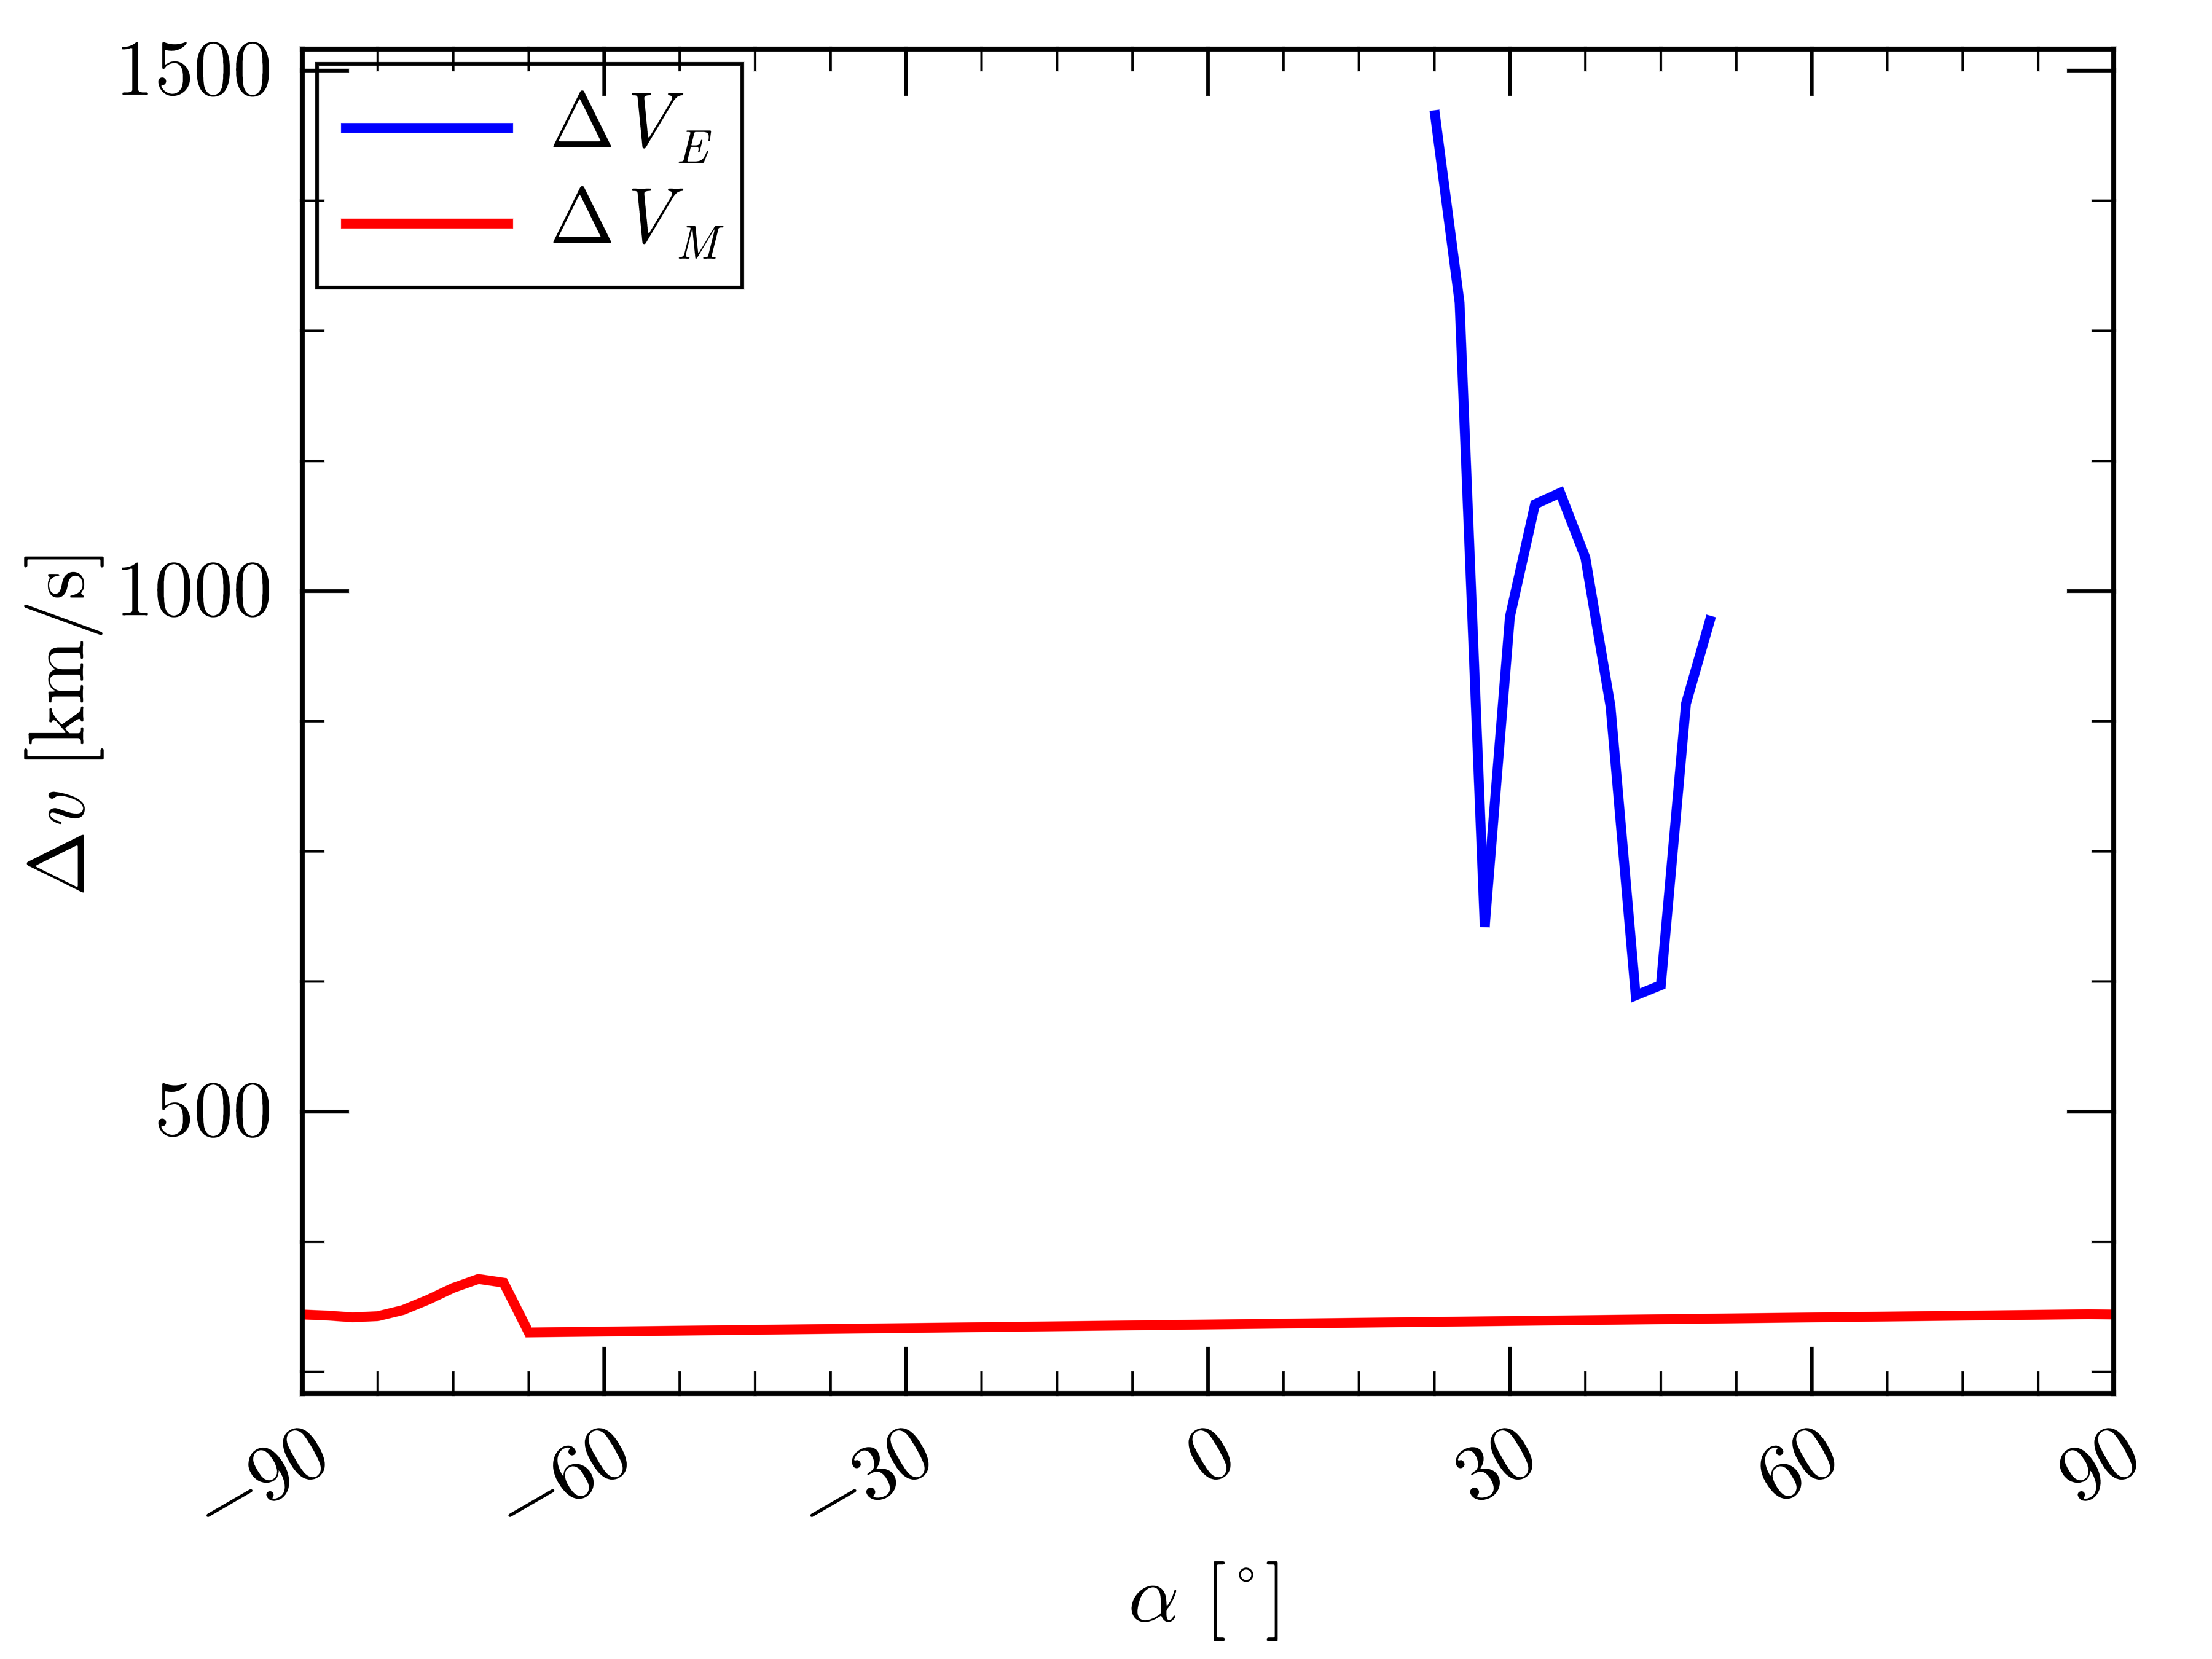
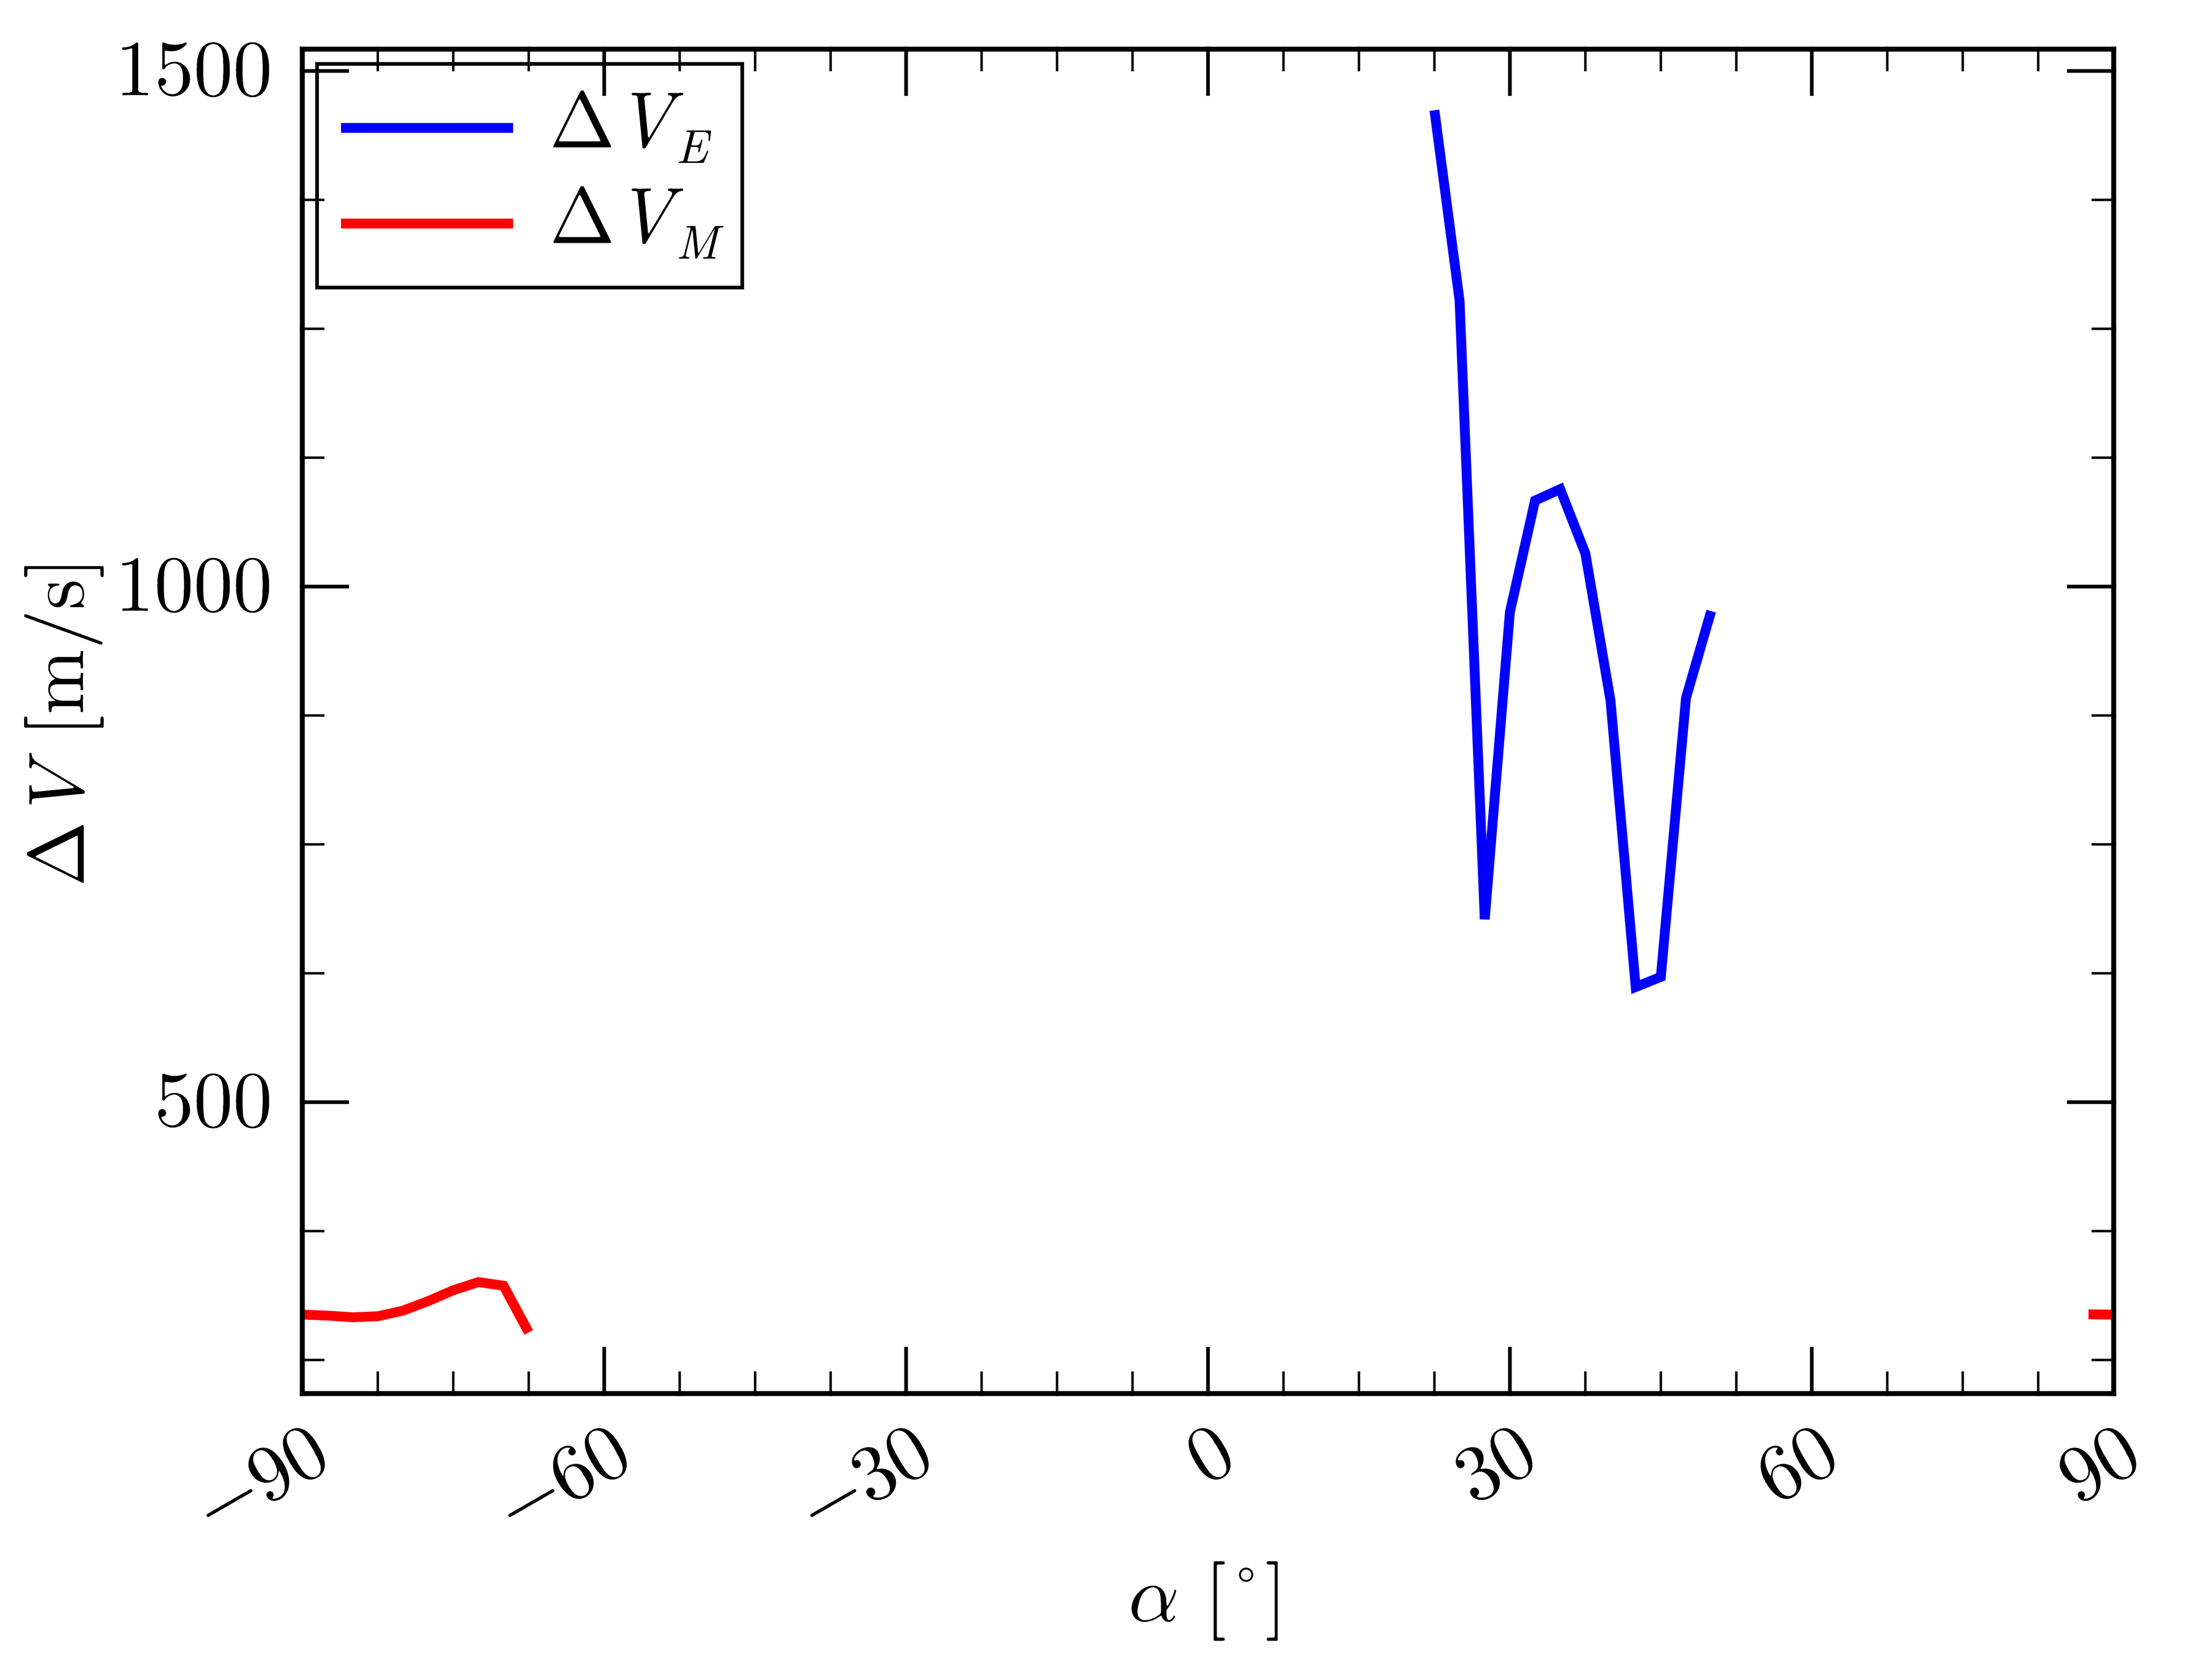
fix frame conversion

diff --git a/report/AE4889_Daniel-Perez-Trias.tex b/report/AE4889_Daniel-Perez-Trias.tex
@@ -88,6 +88,7 @@
 \newacronym{jpl}{JPL}{Jet Propulsion Laboratory}
 \newacronym{cr3bp}{CR3BP}{Circular Restricted Three-Body Problem}
 \newacronym{aep}{AEP}{Artificial Equilibrium Point}
+\newacronym{mpo}{MPO}{Mars Parking Orbit}
 
 \begin{document}
 
@@ -108,6 +109,7 @@
             \begin{itemize}[label=\textendash,leftmargin=*]
                 \item Andreu Craus Vidal
                 \item Rodrigo Duarte Soares
+                \item Ismael Gallo López
             \end{itemize}
         \end{minipage}
     \par}
@@ -282,7 +284,7 @@
     \item[\textbf{2.4}] To analyse the sensitivity of the required lightness number to the shift in the Lagrange point, a range of 21 shifts from $0.0005$ LU to $0.001$ LU is considered, and the corresponding lightness numbers are computed using the formula from Task 2.1a. The results are shown in Figure \ref{fig:beta_sensitivity}. \par 
     \begin{figure}[h]
         \centering
-        \includegraphics[width=0.75\textwidth]{beta_sensitivity.png}
+        \includegraphics[width=0.75\textwidth]{wp2_beta_sensitivity.png}
         \caption{Sensitivity of the required lightness number, $\beta$, to the shift in the Lagrange point, $\Delta x$, for the Sun--Earth and Sun--Mars systems.}
         \label{fig:beta_sensitivity}
     \end{figure}